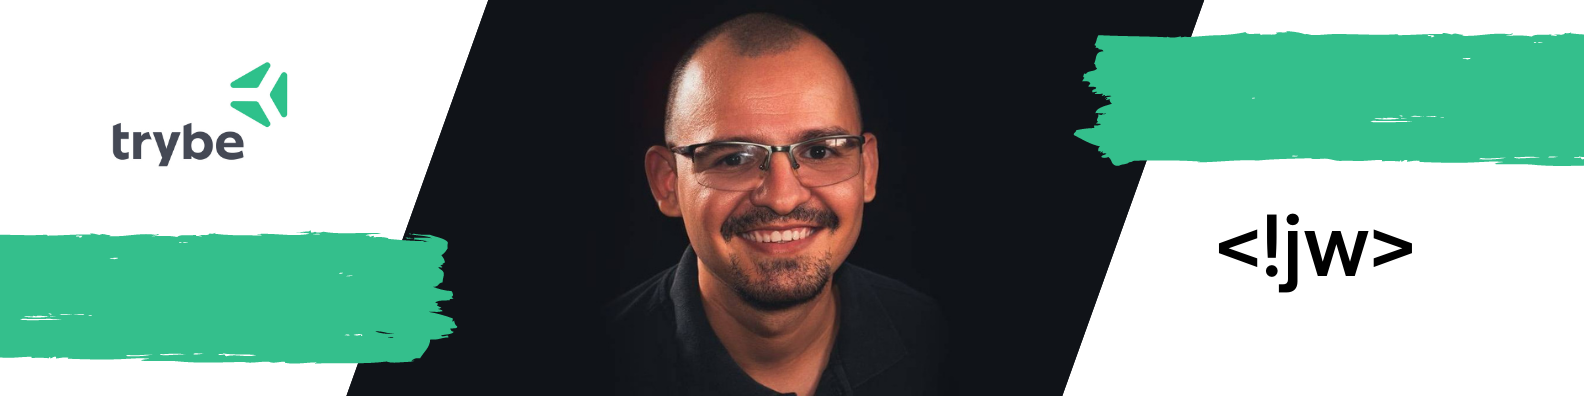
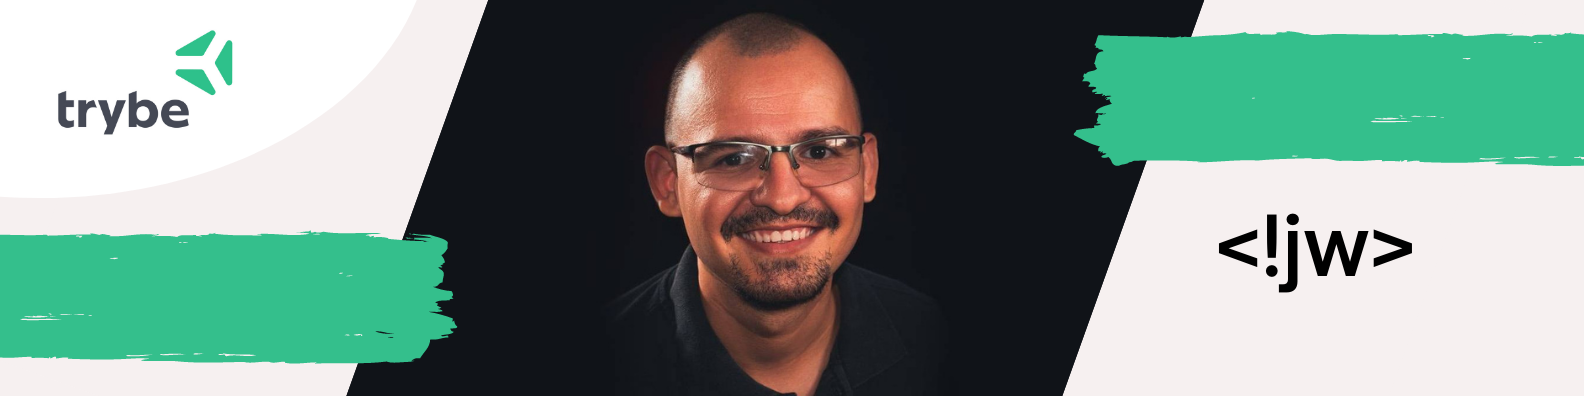
Incrementação do estilo css

Changed region(s): [[0.0309, 0.0909, 0.1856, 0.4242]]

diff --git a/index.html b/index.html
@@ -7,41 +7,90 @@
     <title>Portfólios de Desenvolvedor - José Wilson</title>
     <style>
         h1 {
+            font-family: 'Courier New', Courier, monospace;
+            font-size: 30px;
             text-shadow: 1px 2px 3px rgb(160, 163, 160);
+            text-align: center;
         }
+        h3 {
+            font-family: 'Courier New', Courier, monospace;
+            font-size: 18px;
+        }
+        p, ul {
+            font-family: 'Ubuntu', sans-serif;
+            font-weight: 300;
+            text-align: justify;
+            margin: 10px;
+            font-size: 16px;
+        }
+        body {
+            background-color: #F6F0F0;
+        }
+        .fontdestaque {
+            font-style: italic
+        }
+        .habilidade_simples {
+            font-size: 16px
+        }
+        .habilidade_destaque {
+            font-size: 18px
+        }
+        .button {
+            display: block, 10px;
+            margin: 5px;
+            padding: 10px;
+            padding-inline:40px;
+            border: 1px;
+            background: #34BF8C;
+            text-decoration: none;
+            color: white;
+        }
+        .button:hover {
+            background: #299970;
+        }
+        .topo {
+            text-decoration: none;
+            margin: 10px;
+            font-family: 'Ubuntu', sans-serif;
+            font-weight: 300;
+            color: #454955;
+        }    
+
+
+        @import url('https://fonts.googleapis.com/css2?family=Ubuntu:ital,wght@0,300;0,700;1,300;1,700&display=swap');
+
     </style>
 </head>
 <body>
     <strong>
     <a id="topo"></a>
-        <a href="#foto">Foto</a> | 
-        <a href="#quemsou">Quem Sou?</a> | 
-        <a href="#habilidades">Minhas Habilidades</a> | 
-        <a href="https://blog.betrybe.com/" target="_blank"> Blog</a>
-    </strong>
+        <a href="#foto" class="topo">Foto</a> | 
+        <a href="#quemsou" class="topo">Quem Sou?</a> | 
+        <a href="#habilidades" class="topo">Minhas Habilidades</a> | 
+        <a href="https://blog.betrybe.com/" target="_blank" class="topo"> Blog</a>
+    </strong><hr>
 
     <img id= "foto" src="imagem/jose-wilson.png" alt="homem sorrindo" width="100%">
-    <h1> - José Wilson de Morais Neto</h1>
+    <h1> &#10162 José Wilson de Morais Neto</h1>
     <br><h3 id="quemsou">Quem sou?</h3>
-    <p>Meu nome é esse ai em cima, mas se preferir pode chamar apenas de "<strong>JW</strong>".<br>
-    Sou natural de Goiania/GO e vim para o Maranhão com meus pais quando ainda era criança. Hoje moro em <strong>Coelho Neto</strong>
+    <p>Meu nome é esse ai em cima, mas se preferir pode chamar apenas de "<strong class="fontdestaque">JW</strong>". Sou natural de Goiania/GO e vim para o Maranhão com meus pais quando ainda era criança.<br>Hoje moro em <strong class="fontdestaque">Coelho Neto</strong>
     juntamente com minha esposa e meus dois cachorros: a Deby e o Pitoco.<br>
     Sou uma pessoa extrovertida, mas que em muitos momentos prefira apenas escutar.<br>
     Gosto de uma boa musica e de viagens de moto.<br>Profissionalmente estou em transição de carreira: saindo da fotografia, ensaios e eventos, para o desenvolvimento Web.
-    Processo que dei início em Novembro de 2020 graças a <strong>Trybe</strong>.</p>
+    Processo que dei início em Novembro de 2020 graças a <strong class="fontdestaque">Trybe</strong>.</p>
     <br><h3 id="habilidades">Minhas Habilidades:</h3>
     <ul>
-        <li><strong>Comunicativo</strong></li>
-        <li><strong>Detalhista</strong></li>
-        <li>Paciente</li>
-        <li>Conciliador</li>
+        <li><strong class="habilidade_destaque">Comunicativo</strong></li>
+        <li><strong class="habilidade_destaque">Detalhista</strong></li>
+        <li class="habilidade_simples">Paciente</li>
+        <li class="habilidade_simples">Conciliador</li>
     </ul>
     <br>
     <img src="imagem/barra.png" alt="barra verde" width="100%"><br>
     <strong><h3>
-        <a href="#foto">Foto</a> &nbsp; | &nbsp;
-        <a href="https://blog.betrybe.com/" target="_blank"> Blog</a> &nbsp; | &nbsp;
-        <a href="#topo">Topo</a>
+        <a href="#foto" class="button">Foto</a>
+        <a href="https://blog.betrybe.com/" target="_blank" class="button"> Blog</a>
+        <a href="#topo" class="button">Topo</a>
     </h3></strong>
 </body>
 </html>
